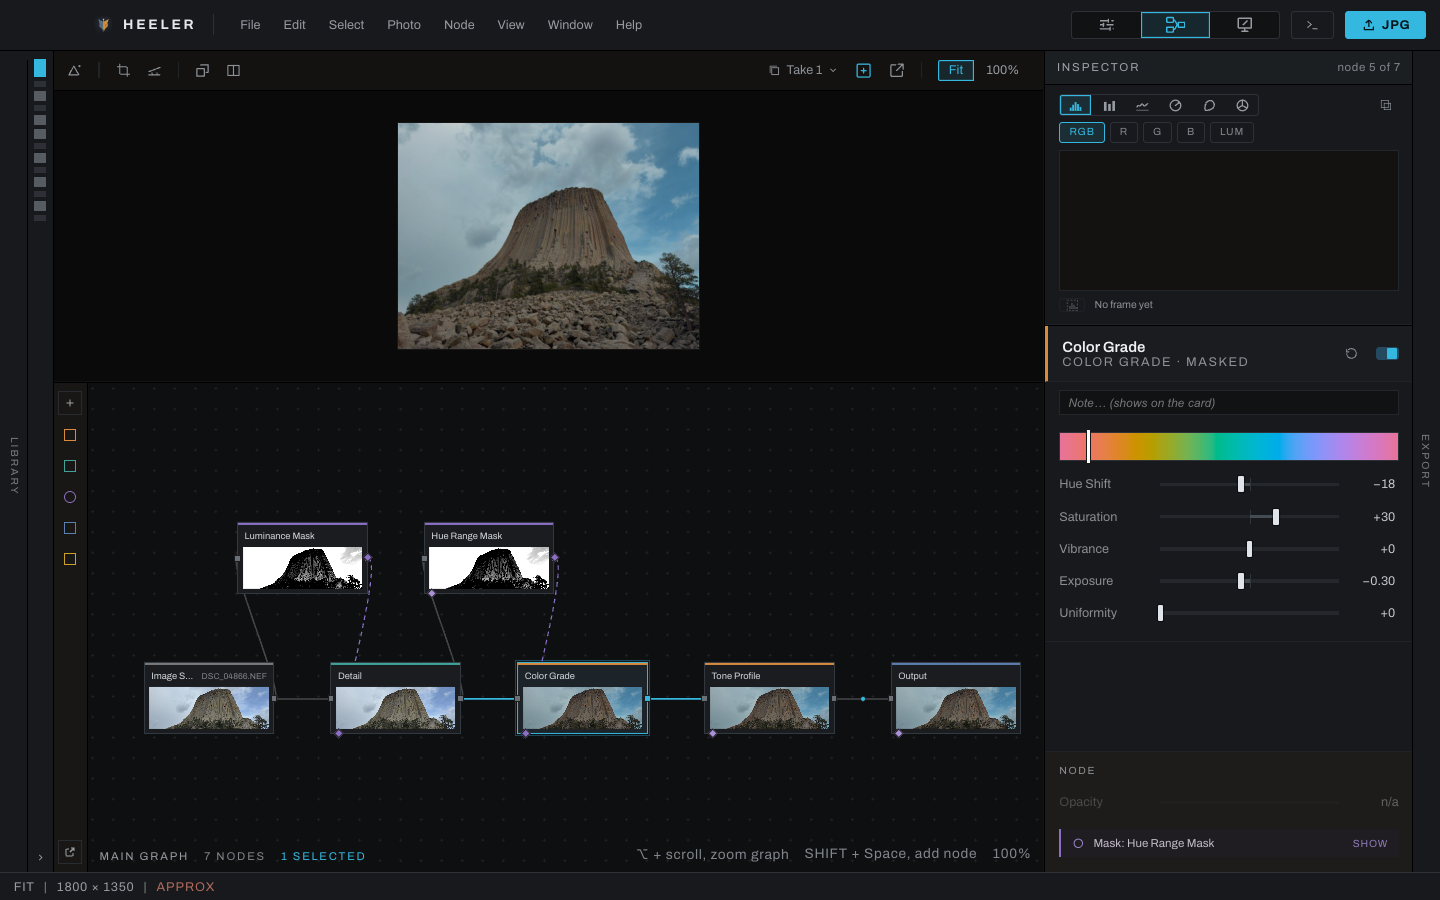
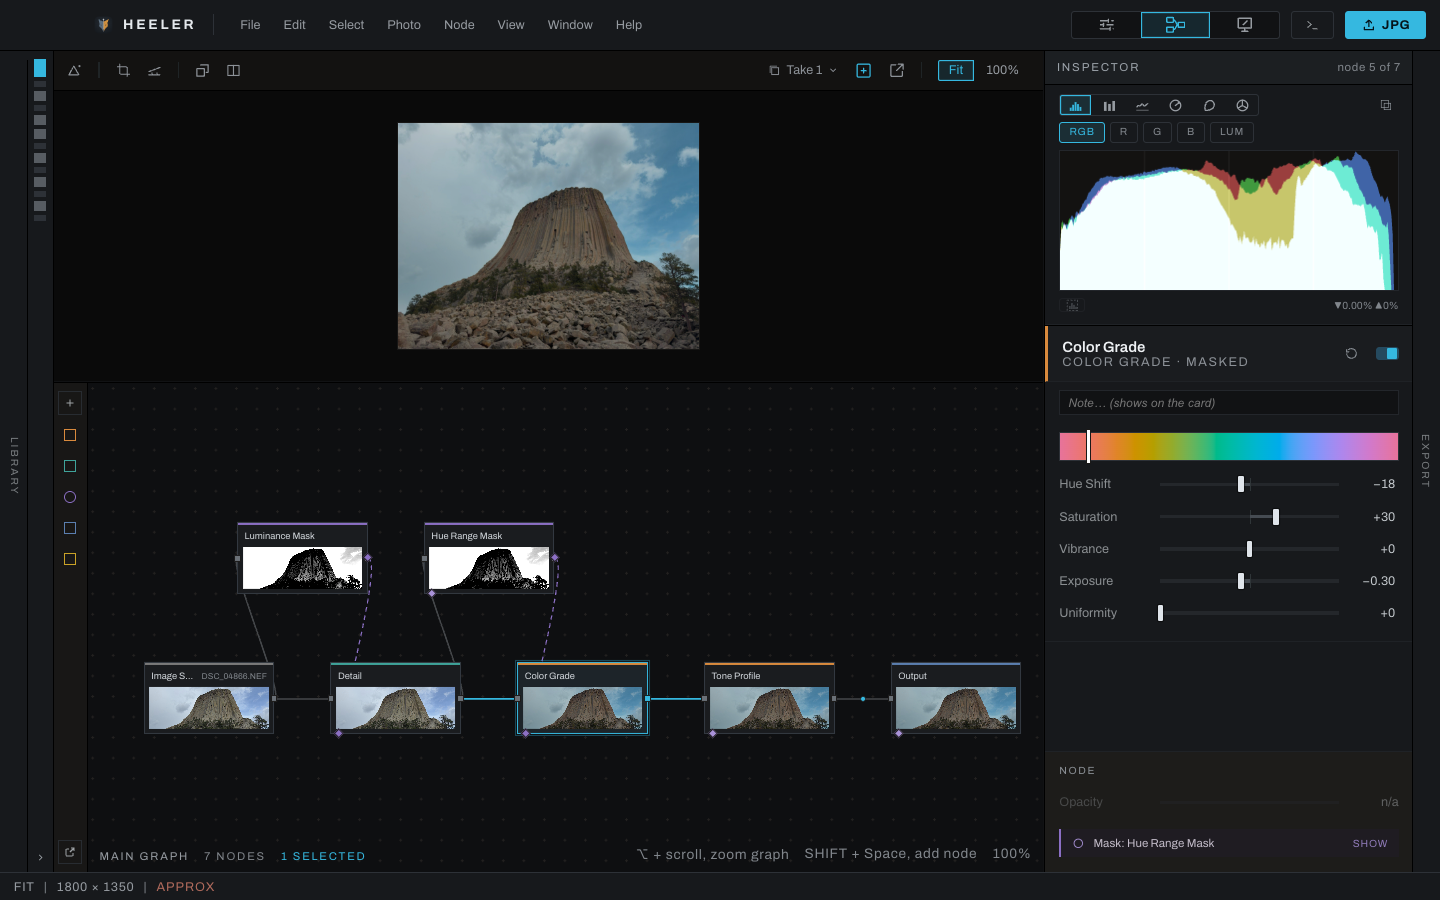
The Graph workspace's inspector histogram reads the photograph's thumbnail until the engine's frame lands, as Develop's panel does, and the README's Graph figure is retaken with it. The inspector was handed the engine's frame alone, so its histogram read "No frame yet" where Develop's already plotte

Changed region(s): [[0.7188, 0.1556, 0.9688, 0.3422]]

diff --git a/apps/heeler-app/src/app.tsx b/apps/heeler-app/src/app.tsx
@@ -2174,11 +2174,15 @@ torn down: DONE puts the adjustments back exactly as they were.*/}
                     })
                   }
                 />
+                {/* The engine's frame, or until it lands the photograph's own
+thumbnail, the way Develop's panel reads it: on the engine's frame
+alone the inspector's histogram sat at "No frame yet" while Develop's
+already plotted (the README's Graph figure caught it).*/}
                 <Inspector
                   state={state}
                   dispatch={dispatch}
                   width={laid.panelSizes.right}
-                  frame={engineFrame}
+                  frame={engineFrame ?? state.images.find((i) => i.id === state.activeImage)?.src ?? null}
                 />
               </>
             ) : (
